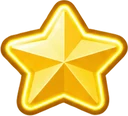
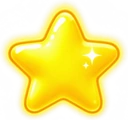
ネオン：ステージ選択タイルと星を新デザインに差し替え
Claude-Session: https://claude.ai/code/session_01C8PtLCLrCZA399Ryqnq6qb

diff --git a/fit.js b/fit.js
@@ -225,3 +225,17 @@
    +'body[data-vt=retro] .qg button .gcs{width:15px;height:15px;margin:0 0}';
   document.head.appendChild(st);
 })();
+
+/* ステージ選択タイル（ネオン） */
+(function(){
+  var b=new URL('img/neon/',document.currentScript.src).href;
+  var st=document.createElement('style');
+  st.textContent='body[data-vt=neon] .qg{gap:8px}'
+   +'body[data-vt=neon] .qg button{aspect-ratio:1/1;border:0!important;border-radius:0!important;padding:0!important;gap:0!important;flex-direction:column;align-items:center;justify-content:center;color:#bff8ff!important;text-shadow:0 0 6px #19e6ff;font-size:clamp(14px,4.6vw,19px)!important;font-weight:900;line-height:1.1;background:url('+b+'stg_frame.webp) center/100% 100% no-repeat!important;box-shadow:none}'
+   +'body[data-vt=neon] .qg button.ok{background-image:url('+b+'stg_frame_clear.webp)!important;color:#fff!important}'
+   +'body[data-vt=neon] .qg button.lk{opacity:.55;filter:grayscale(.5)}'
+   +'body[data-vt=neon] .qg button.cur{box-shadow:0 0 0 3px #fff,0 0 12px #19e6ff!important;border-radius:16px!important}'
+   +'body[data-vt=neon] .qg button small{display:none;font-size:0;line-height:0;margin-top:1px}body[data-vt=neon] .qg button small:has(.gcs){display:block}'
+   +'body[data-vt=neon] .qg button .gcs{width:15px;height:15px;margin:0 0}';
+  document.head.appendChild(st);
+})();

diff --git a/sw.js b/sw.js
@@ -1,5 +1,5 @@
 // オフライン対応（ページは最新を優先、画像などはキャッシュを優先）
-const V='gc-v305';
+const V='gc-v306';
 const CORE=['./','index.html','coins.js','backup.js','manifest.webmanifest','icons/icon-192.png',
  ...['reversi','shogi','wanko','gomoku','memory','escape','rings','peg','slide','hanoi'].map(g=>g+'/')];
 self.addEventListener('install',e=>{e.waitUntil(caches.open(V).then(c=>c.addAll(CORE)).then(()=>self.skipWaiting()))});
